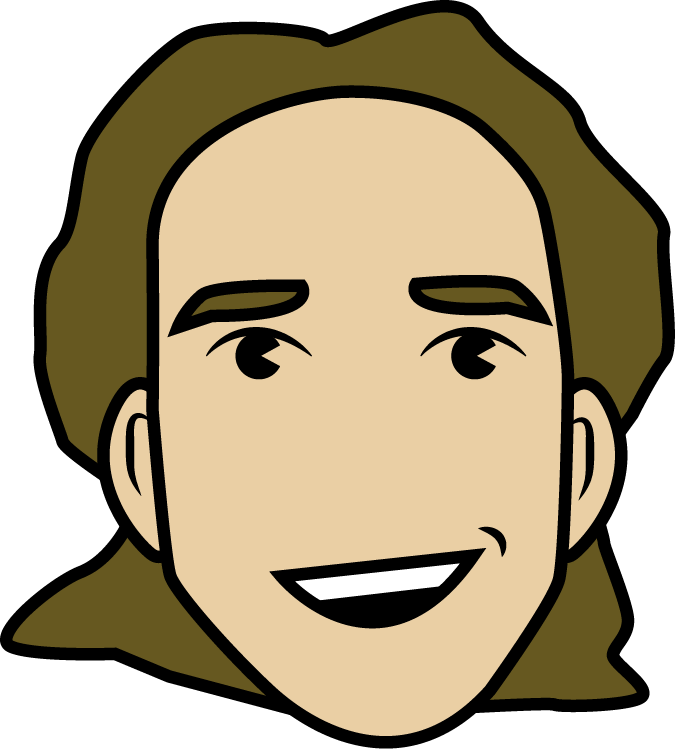
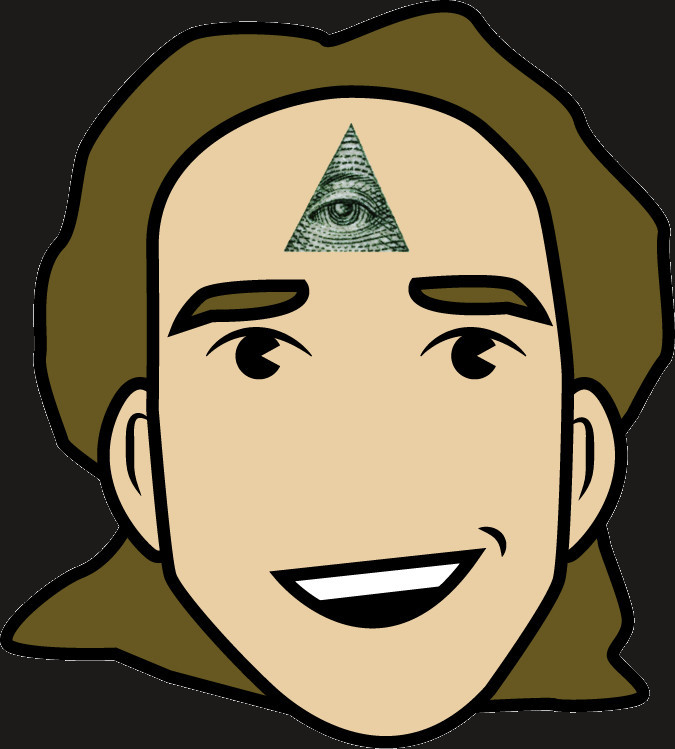
Switch to new dark design
Including geeko and gopher instead of larry.
third eye avatar.
opensuse colors http://opensuse.github.io/branding-guidelines/

diff --git a/themes/jubal2/static/css/main.css b/themes/jubal2/static/css/main.css
@@ -16,8 +16,8 @@ html, body {
 }
 
 body {
-  color: #333;
-  background-color: #fafbfc;
+  color: #7cb054;
+  background-color: #1c1b19;
   font-family: 'Raleway', Arial, sans-serif;
   font-weight: 400;
   font-size: 0.85em;
